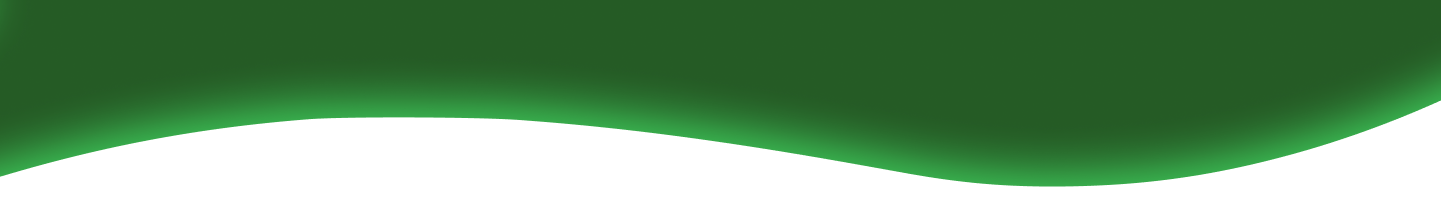
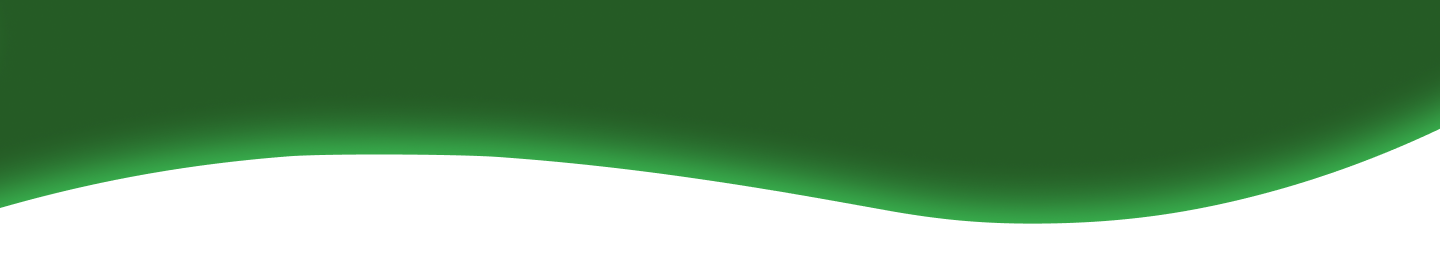
fix: header-flag image fixed

Changed region(s): [[0.0, 0.4128, 0.8438, 0.8807], [0.8438, 0.4679, 1.0, 0.7982]]

diff --git a/src/components/header/styles.ts b/src/components/header/styles.ts
@@ -45,6 +45,8 @@ export const Flag = styled.img`
   position: absolute;
   width: 100%;
   height: 25%;
+  margin-top: -1px;
+  margin-right: -4px;
 
   @media screen and (min-width: 1669px) {
     height: 20%;
